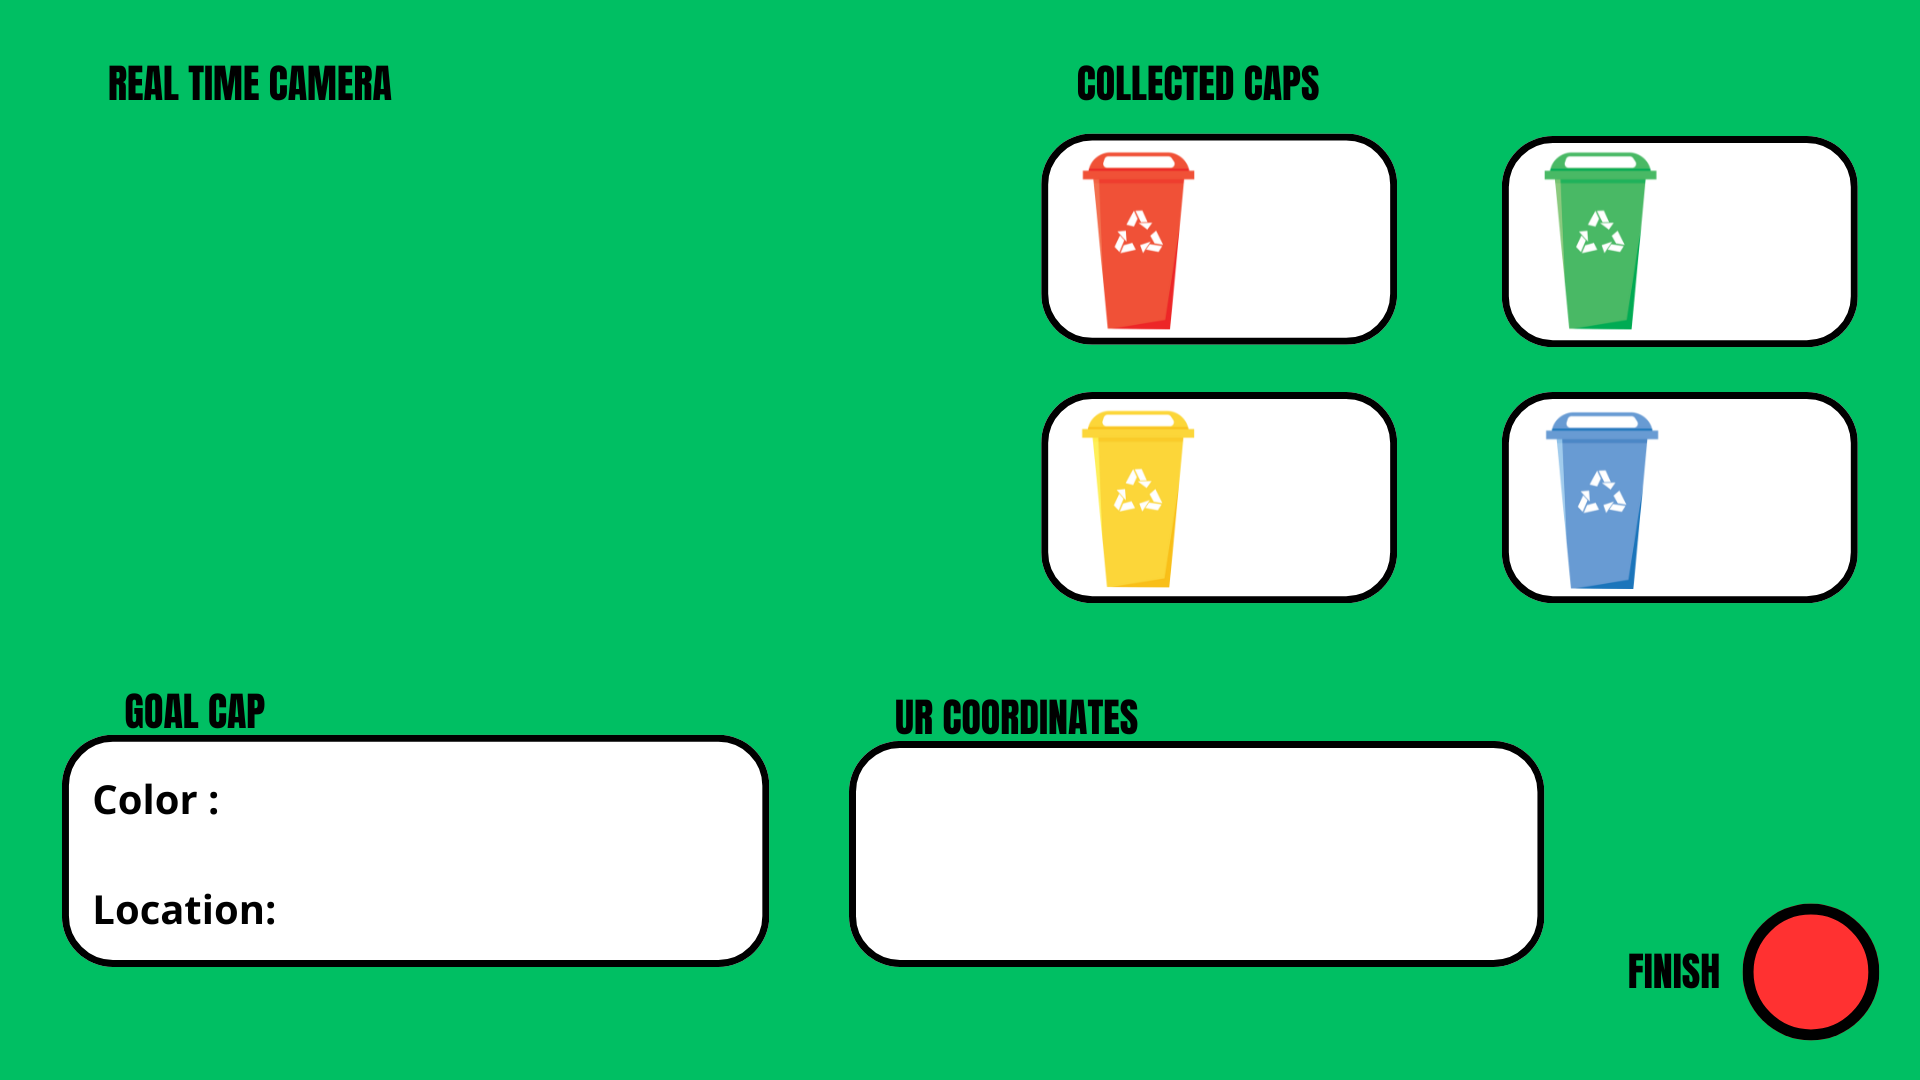
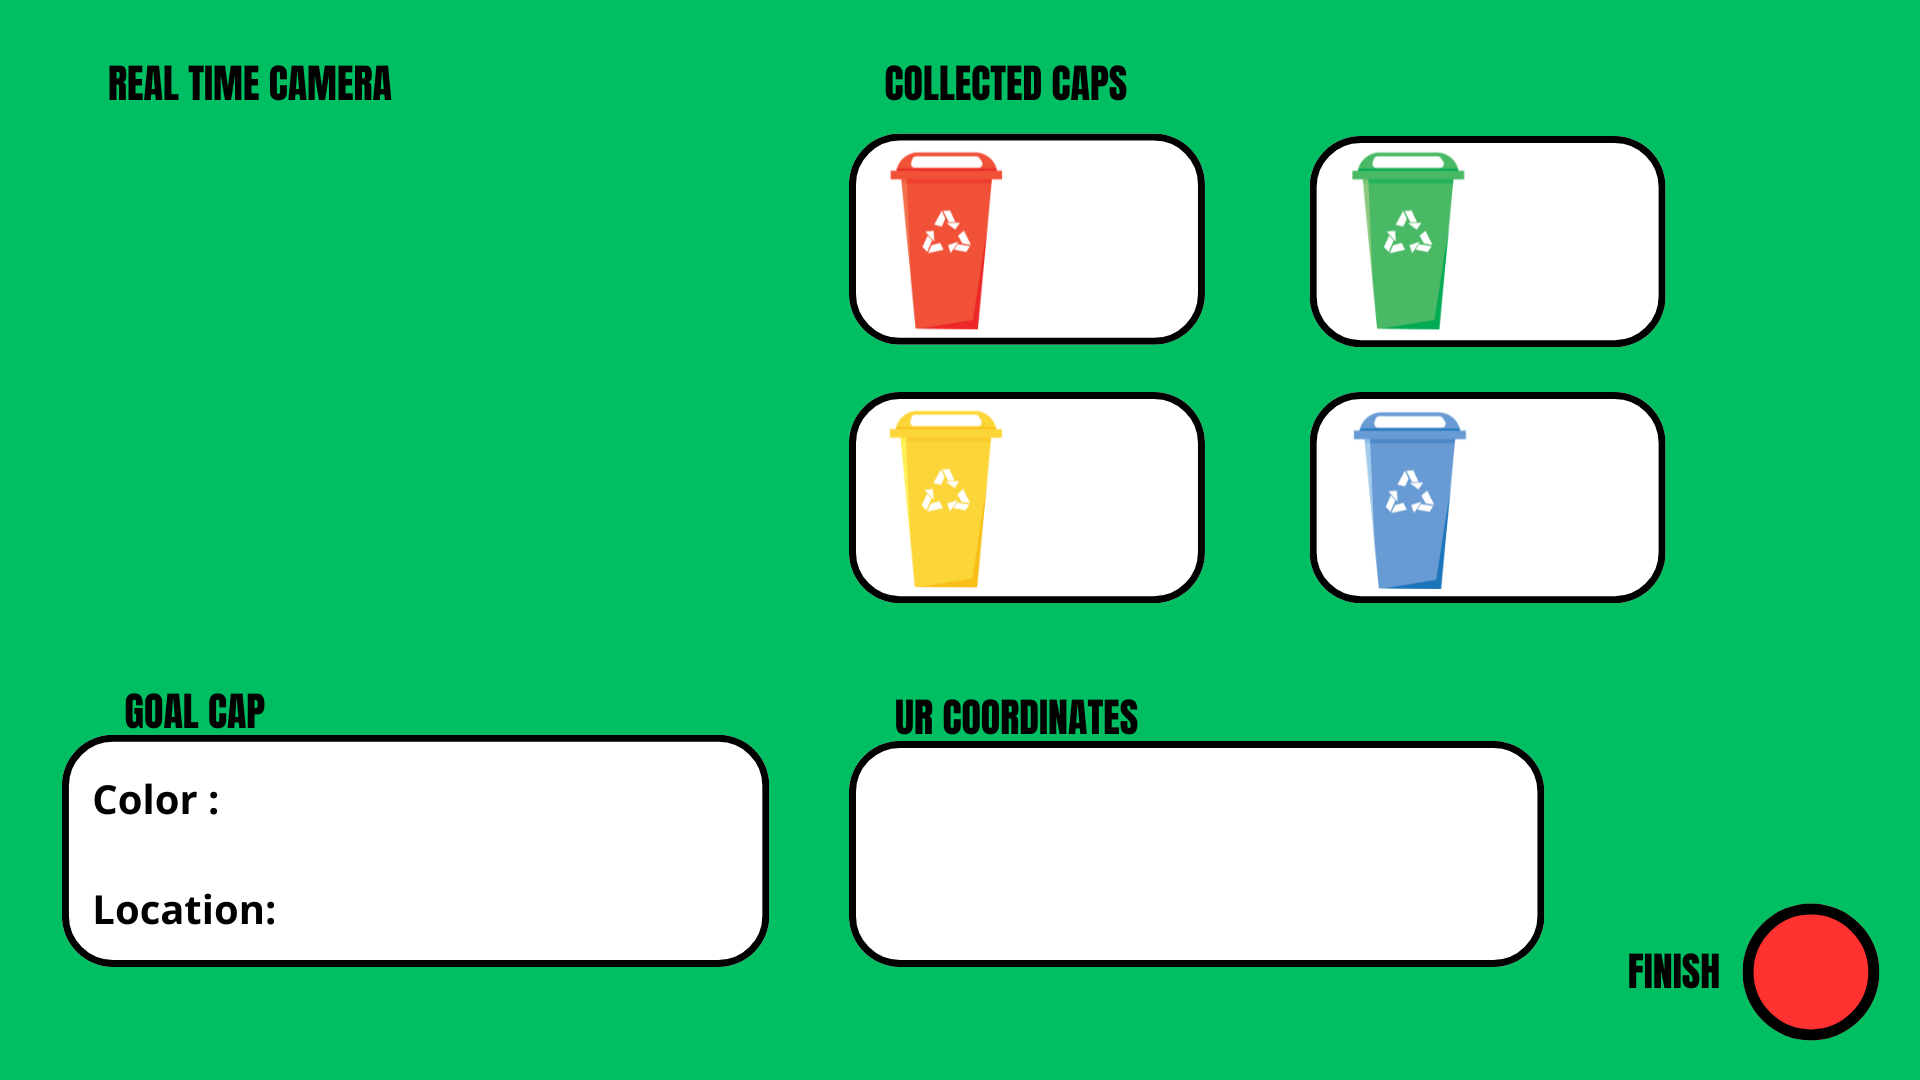
Cambios en GUI

Changed region(s): [[0.4375, 0.1222, 0.9688, 0.5806], [0.4375, 0.0611, 0.6875, 0.0917]]

diff --git a/GUI/interface.py b/GUI/interface.py
@@ -7,10 +7,10 @@ from PyQt5.QtCore import Qt, QTimer
 
 # ---- VALORES PREDEFINIDOS MODIFICABLES POR EL PROGRAMADOR ----
 valores = {
-    'box1': {'valor': 100, 'x': 1225, 'y': 180},
-    'box2': {'valor': 200, 'x': 1225, 'y': 420},
-    'box3': {'valor': 300, 'x': 1675, 'y': 180},
-    'box4': {'valor': 400, 'x': 1675, 'y': 420},
+    'box1': {'valor': 100, 'x': 1010, 'y': 180},
+    'box2': {'valor': 200, 'x': 1010, 'y': 420},
+    'box3': {'valor': 300, 'x': 1475, 'y': 180},
+    'box4': {'valor': 400, 'x': 1475, 'y': 420},
     'boxRed': {'valor': 'Red', 'x': 240, 'y': 690}
 }
 
@@ -34,7 +34,7 @@ class StartScreen(QWidget):
         painter.drawPixmap(0, 0, self.width(), self.height(), self.background_image)
         painter.setPen(QColor(255, 0, 0))
         painter.setBrush(QColor(255, 0, 0, 100))
-        painter.drawEllipse(500, 620, 900, 150)
+        #painter.drawEllipse(500, 620, 900, 150)
 
     def start_app(self):
         self.main_window.setCurrentIndex(1)
@@ -90,7 +90,7 @@ class MainScreen(QWidget):
         painter.drawPixmap(0, 0, self.width(), self.height(), self.background_image)
         painter.setPen(QColor(255, 0, 0))
         painter.setBrush(QColor(255, 0, 0, 100))
-        painter.drawEllipse(1750, 830, 120, 120)
+        #painter.drawEllipse(1750, 830, 120, 120)
 
     def update_frame(self):
         ret, frame = self.capture.read()
